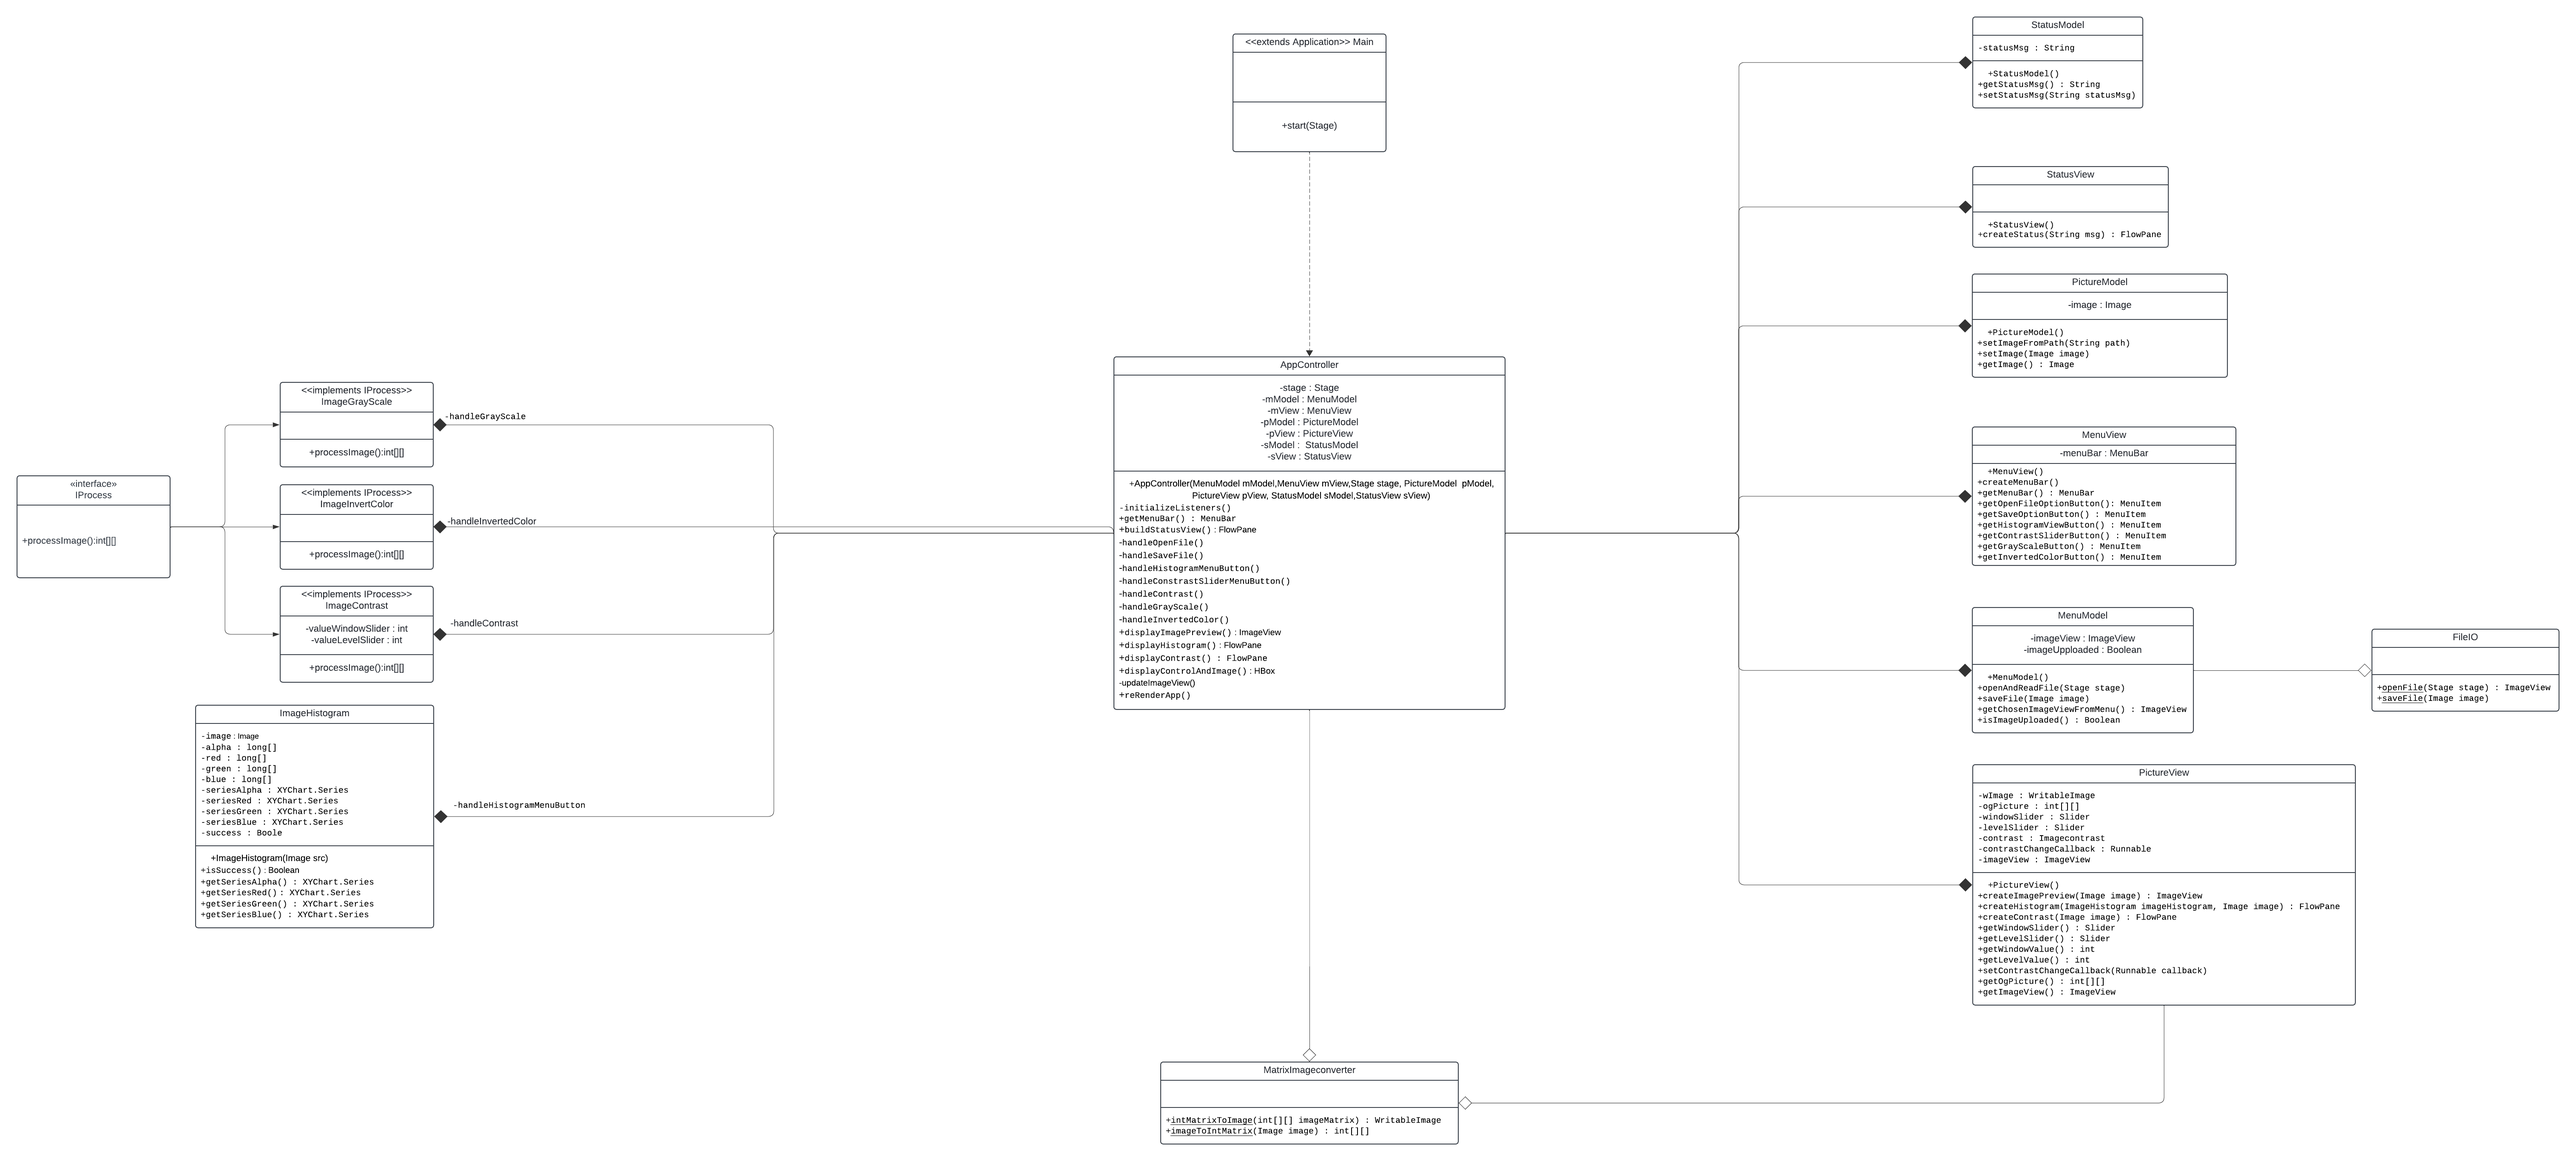
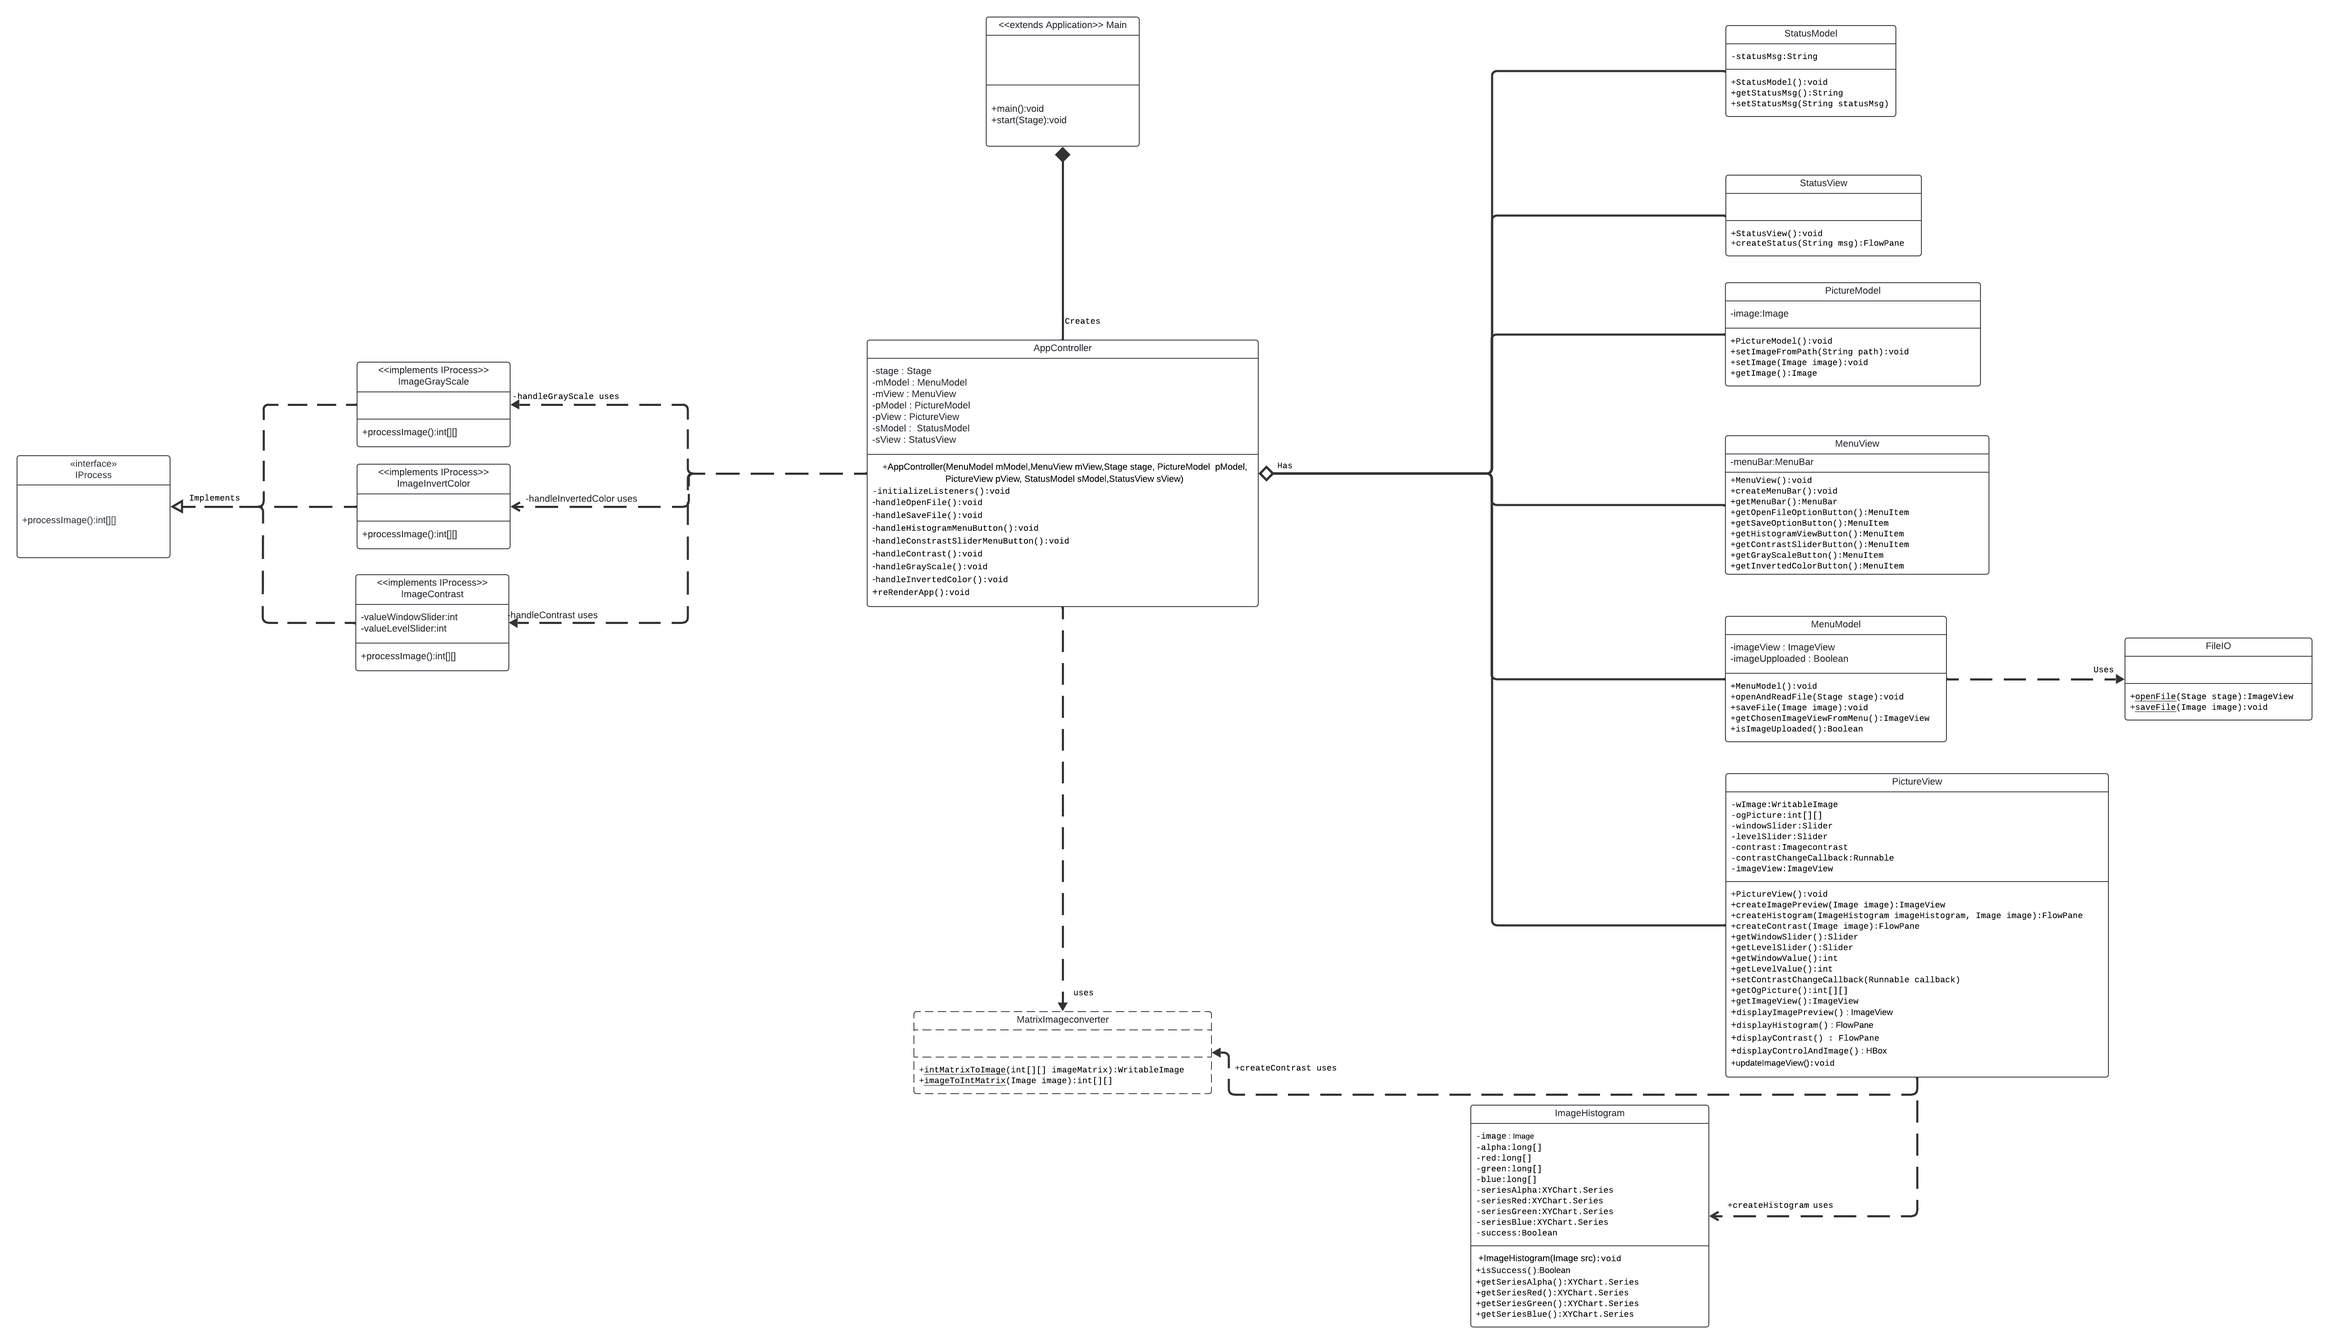
Städning och updaterat UML
Tog bort onödiga imports och copy bilden, la samt till det uppdaterade och klara UML diagramet

diff --git a/src/main/java/se/kth/olof/beyar/labb4/controller/AppController.java b/src/main/java/se/kth/olof/beyar/labb4/controller/AppController.java
@@ -1,10 +1,5 @@
 package se.kth.olof.beyar.labb4.controller;
 
-import javafx.geometry.Insets;
-import javafx.scene.Scene;
-import javafx.scene.control.MenuBar;
-import javafx.scene.image.Image;
-import javafx.scene.image.ImageView;
 import javafx.scene.image.WritableImage;
 import javafx.scene.layout.*;
 import javafx.stage.Stage;
